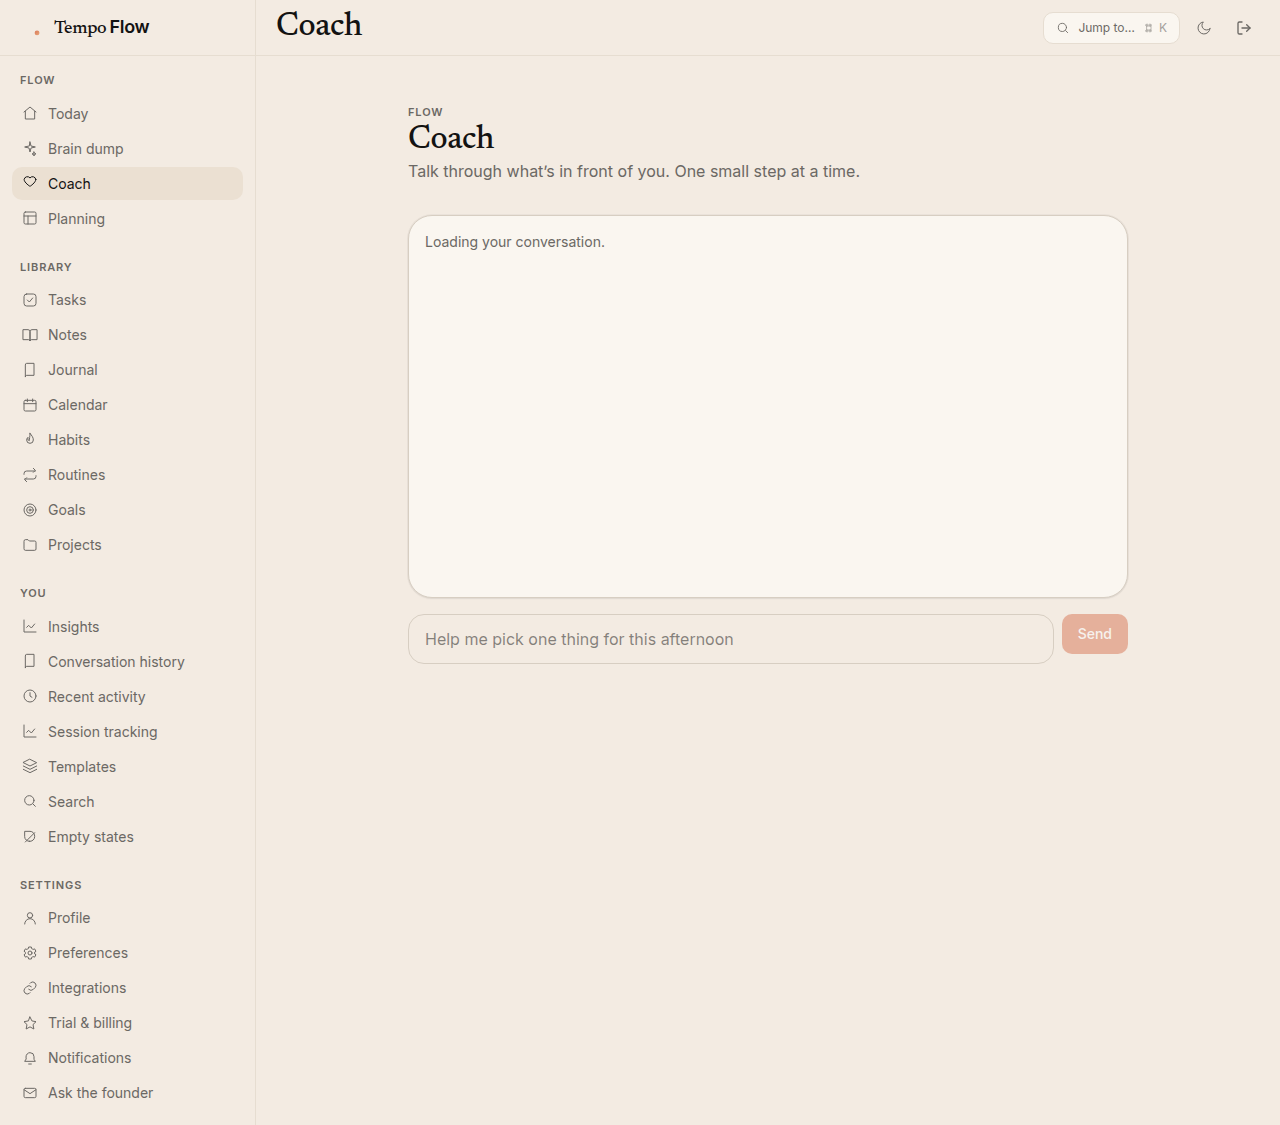
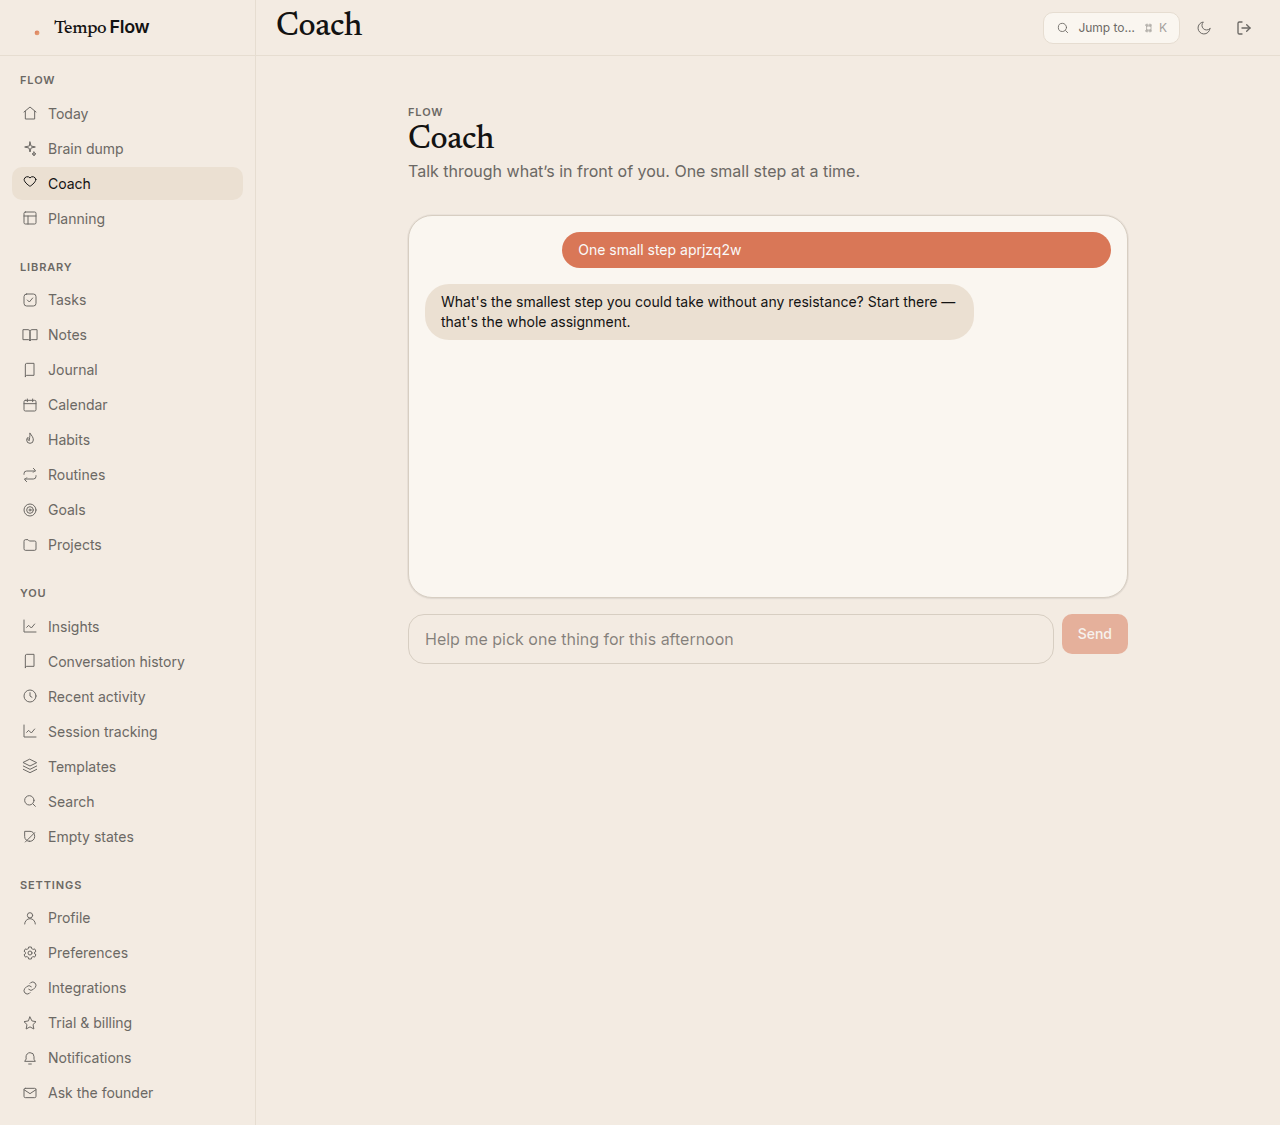
test(e2e): re-run coach and brain dump after the approval gate
The pending inbox is approved. Coach send survives reload, and the Today
brain-dump planner returns four ordered lines. Sort it and nag suggestions
are still not mounted. The pending rejection is recorded as the gate working.

Changed region(s): [[0.3125, 0.1867, 0.875, 0.3111], [0.3438, 0.1867, 0.375, 0.2178]]

diff --git a/docs/reports/FEATURE-TEST-2026-10-06.md b/docs/reports/FEATURE-TEST-2026-10-06.md
@@ -1,26 +1,27 @@
 # Feature test — 2026-10-06
 
-**13 works, 6 broken, 39 not-wired.** Draft only. Do not merge.
+**16 works, 5 broken, 39 not-wired.** Draft only. Do not merge.
+
+Approved re-run (after 13:16 IDT): brain-dump AI on `/today` works, coach chat send works and survives reload. `/brain-dump` Sort it is still the scaffold. `/settings/nags` is still 404, so phrase suggestions were not reached. The earlier `ACCOUNT_PENDING_APPROVAL` errors were the approval gate doing its job while this inbox was pending. That gate row is **works**.
 
 | | |
 |---|---|
 | Base URL | `https://preview.tempoflow.dev` |
 | `/api/health` commit | `9f097bf` |
-| Run time | 2026-10-06, about 13:35 IDT (sweep finished 3.7 min, 58 tests passed) |
-| Sign-in | `node scripts/e2e/magic-link-login.mjs` with a disposable mail.tm inbox. Storage state stayed in `/tmp`. |
+| Run time | Sweep about 13:35 IDT. Approved re-run about 13:46 IDT. |
+| Sign-in | Magic link for the approved disposable inbox. Storage state stayed in `/tmp`. |
 | Playwright browser | system Chrome (`channel: "chrome"`). This sandbox does not have Playwright's downloaded Chromium. |
 
 The integration deployment `https://tempo-1hhdkf59f-amit-levins-projects.vercel.app` returned HTTP 302 to Vercel SSO. `VERCEL_AUTOMATION_BYPASS_SECRET` was unset, so that host was not used. `preview.tempoflow.dev` returned HTTP 200 with no `x-vercel-mitigated` header.
 
-A new disposable account is not approved. Coach calls fail with `ACCOUNT_PENDING_APPROVAL: your account is waiting for approval.`
+While that inbox was pending, coach returned `ACCOUNT_PENDING_APPROVAL: your account is waiting for approval.` After approval, the same inbox got a coach reply and a server brain-dump plan.
 
 ## Top breaks
 
-1. **Coach is blocked for a new account.** `/coach` mounts the chat, but `conversations.create` throws `ACCOUNT_PENDING_APPROVAL`. The message box stays disabled, so crisis send and “send + reload” cannot run. The 0–10 dial and “Plan my day” are not on the page.
-2. **Calendar add is refused.** The Day/Week/Month screen is there. Submit shows `Sign in again to add calendar events.` The new title never appears.
-3. **Notes pin did not stick.** A note title was entered. The control never became Unpin. The saved shot is the sign-in wall.
-4. **Insights stays on skeletons.** The heading is there. The cards are empty pulses. No numbers, calm empty copy, or Retry in the shot.
-5. **`/settings/passkeys` stays on the sign-in wall** while the same session could open `/today` and `/tasks`.
+1. **Calendar add is refused.** The Day/Week/Month screen is there. Submit shows `Sign in again to add calendar events.` The new title never appears.
+2. **Notes pin did not stick.** A note title was entered. The control never became Unpin. The saved shot is the sign-in wall.
+3. **Insights stays on skeletons.** The heading is there. The cards are empty pulses. No numbers, calm empty copy, or Retry in the shot.
+4. **`/settings/passkeys` stays on the sign-in wall** while the same session could open `/today` and `/tasks`.
 
 ## Not wired yet (waiting on f3-2 / B05)
 
@@ -29,8 +30,8 @@ These routes do not mount the merged component. Scaffold means the old Beta prev
 - `/today` — real Today screen, but no DayPlanPanel, CarryOverStrip, HabitCheckInStrip, or DayPlanSummary. Carry-over also returns nothing when there are no older tasks, so an empty strip cannot be told apart from “not mounted”.
 - `/plan` — scaffold. No DayTimeline, no TimeBlockDialog.
 - `/habits` — HabitsScreen is mounted (`Add a tiny habit`). HabitsLibrary (`#habits-library-name`) is not. `/habits/[id]` is scaffold, so the 6-week grid is absent.
-- `/brain-dump` — scaffold. Sort / accept and the crisis card were not exercised.
-- `/settings/nags`, `/settings/memory` — HTTP 404.
+- `/brain-dump` — still scaffold after approval, so Sort it is not mounted. The live AI control is “Turn this into a plan” on `/today`, and that one works.
+- `/settings/nags` and `/settings/memory` — still HTTP 404 after approval, so phrase suggestions were not reached.
 - `/templates`, `/templates/run/starter:daily-page`, `/templates/builder?from=starter:daily-page` — scaffold.
 - `/onboarding`, `/settings/profile`, `/settings/preferences`, `/billing`, `/search` — scaffold.
 - Smoke scaffolds: `/journal`, `/routines`, `/routines/missing-sweep-id`, `/goals`, `/goals/progress`, `/goals/missing-sweep-id`, `/activity`, `/command`, `/ask-founder`, `/empty-states`, `/daily-note`, `/settings/integrations`, `/templates/sketch`, `/billing/trial-end`, `/about`, `/changelog`.
@@ -58,14 +59,16 @@ Use an approved test user if you need coach. A brand-new mail.tm inbox hits `ACC
 | #625 | TimeBlockDialog | /plan | not-wired | ScaffoldScreen (Beta preview) | docs/reports/feature-test-2026-10-06/timeblockdialog.png |
 | #635 | HabitsLibrary | /habits | not-wired | component heading/controls absent; HabitsScreen is mounted instead | docs/reports/feature-test-2026-10-06/habitslibrary.png |
 | #638 | HabitDetail 6-week grid | /habits/missing-sweep-id | not-wired | ScaffoldScreen (Beta preview) | docs/reports/feature-test-2026-10-06/habitdetail-6-week-grid.png |
-| #632 | Brain dump sort and accept | /brain-dump | not-wired | ScaffoldScreen (Beta preview) | docs/reports/feature-test-2026-10-06/brain-dump-sort-and-accept.png |
+| #632 | Brain dump Sort it | /brain-dump | not-wired | ScaffoldScreen (Beta preview). Sort it is not mounted. Re-checked after approval. | docs/reports/feature-test-2026-10-06/brain-dump-sort-and-accept.png |
+| #632 | Brain dump AI (Turn this into a plan) | /today | works | Server planner returned 4 ordered lines (Reply to Sam now, kettle, walk, receipt) after the account was approved. | docs/reports/feature-test-2026-10-06/brain-dump-ai-approved.png |
 | #632 | Brain dump crisis card | /brain-dump | not-wired | ScaffoldScreen (Beta preview) | docs/reports/feature-test-2026-10-06/brain-dump-crisis-card.png |
 | #637 | Coach dial and panic | /coach | not-wired | ACCOUNT_PENDING_APPROVAL: your account is waiting for approval. Coach dial is not on the page. | docs/reports/feature-test-2026-10-06/coach-dial-and-panic.png |
 | #644 | Coach daily proposal | /coach | not-wired | ACCOUNT_PENDING_APPROVAL: your account is waiting for approval. Plan my day is not on the page. | docs/reports/feature-test-2026-10-06/coach-daily-proposal.png |
-| #647 | Coach crisis card | /coach | broken | ACCOUNT_PENDING_APPROVAL: your account is waiting for approval. Message input stayed disabled. | docs/reports/feature-test-2026-10-06/coach-crisis-card.png |
-| old | Coach chat send and reload | /coach | broken | ACCOUNT_PENDING_APPROVAL: your account is waiting for approval. Message input stayed disabled. | docs/reports/feature-test-2026-10-06/coach-chat-send-and-reload.png |
+| #647 | Coach crisis card | /coach | broken | Recorded while the inbox was pending: message input stayed disabled. Not re-sent after approval. | docs/reports/feature-test-2026-10-06/coach-crisis-card.png |
+| old | Coach chat send and reload | /coach | works | After approval, send survived reload. Reply: What's the smallest step you could take without any resistance? Start there — that's the whole assignment. | docs/reports/feature-test-2026-10-06/coach-chat-send-and-reload.png |
+| #693 | Approval gate | /coach | works | While the inbox was pending, conversations.create returned ACCOUNT_PENDING_APPROVAL: your account is waiting for approval. That rejection is the gate. After approval the same inbox can chat. | docs/reports/feature-test-2026-10-06/coach-chat-send-and-reload.png |
 | #652 | Nag list | /settings/nags | not-wired | route 404 | docs/reports/feature-test-2026-10-06/nag-list.png |
-| #654 | Nag phrases and suggestions | /settings/nags | not-wired | route 404 | docs/reports/feature-test-2026-10-06/nag-phrases-and-suggestions.png |
+| #654 | Nag phrase suggestions | /settings/nags | not-wired | route 404. Suggest was not reached. Re-checked after approval. | docs/reports/feature-test-2026-10-06/nag-phrases-and-suggestions.png |
 | #653 | Memory settings | /settings/memory | not-wired | route 404 | docs/reports/feature-test-2026-10-06/memory-settings.png |
 | #602 | TemplatesLibrary | /templates | not-wired | ScaffoldScreen (Beta preview) | docs/reports/feature-test-2026-10-06/templateslibrary.png |
 | #604 | TemplateRun | /templates/run/starter:daily-page | not-wired | ScaffoldScreen (Beta preview) | docs/reports/feature-test-2026-10-06/templaterun.png |
